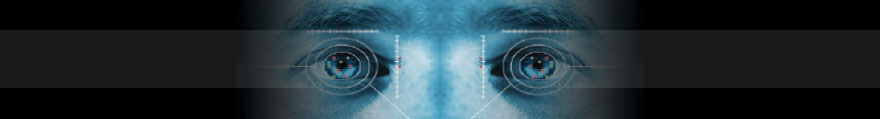
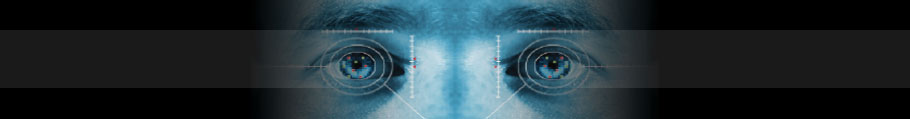
more revisions and clean up

diff --git a/css/styles.css b/css/styles.css
@@ -1,6 +1,6 @@
 body {
-	background-color:#000;
-	font-family: Verdana, Arial, Helvetica, sans-serif;
+	background-color:#192132;
+	font-family: Tahoma, Arial, Helvetica, sans-serif;
 	font-size: 11px;
 	font-weight: normal;
 	color: #000;
@@ -8,6 +8,9 @@ body {
 	text-align:left;
 	padding:0;
 	margin:0;
+	background-image:url(../images/site_grad.jpg);
+	background-repeat:repeat-y;
+	background-position:center top;	
 }
 
 form, fieldset, dl, dt, dd, table, th, td, h1, h2, h3, h4, h5, h6, p
@@ -64,8 +67,8 @@ table,tr,td { vertical-align:top; }
 .contentRight { float:right; width:49%; }
 .split25 .contentLeft { width:23%; }
 .split25 .contentRight { width:73%; }
-.split60 .contentLeft { width:58.7%; }
-.split60 .contentRight { width:39.2%; }
+.split60 .contentLeft { width:57%; }
+.split60 .contentRight { width:37%; }
 .split75 .contentLeft { width:71.5%; }
 .split75 .contentRight { width:26.2%; }
 
@@ -127,19 +130,18 @@ img.inlineRight {
 
 #site 
 {
-    width:886px;
+    width:100%;
     margin:0 auto;
-	background-color:#fff;
 	/*background-image:url(../images/site_bg.png);*/
 	background-repeat:repeat-y;
 	background-position:center top;	
 }
 
-#siteInnerXXX 
+#headInner, #siteInner 
 {
-    width:880px;
+    width:910px;
+	background-color:#fff;
     margin:0 auto;
-    padding-bottom:18px;
 }
 
 /**************
@@ -178,13 +180,13 @@ img.inlineRight {
 #headNav ul 
 {
     text-align:center;
-    margin-left:-5px;
+    margin-left:-10px;
 }
 
 #headNav ul li 
 {
     font-size:12px;
-    margin-left:5px;
+    margin-left:10px;
     line-height:42px;
 }
 
@@ -270,3 +272,15 @@ img.inlineRight {
 {
     text-align:center;
 }
+
+#defaultContentWrap
+{
+    padding-top:25px;
+    text-align:center;
+}
+
+#defaultContentWrap p 
+{
+    margin-bottom:25px;
+}
+    

diff --git a/defaultContent.ascx.cs b/defaultContent.ascx.cs
@@ -1,0 +1,14 @@
+using System;
+using System.Collections.Generic;
+using System.Linq;
+using System.Web;
+using System.Web.UI;
+using System.Web.UI.WebControls;
+
+public partial class WebUserControl : System.Web.UI.UserControl
+{
+    protected void Page_Load(object sender, EventArgs e)
+    {
+
+    }
+}
